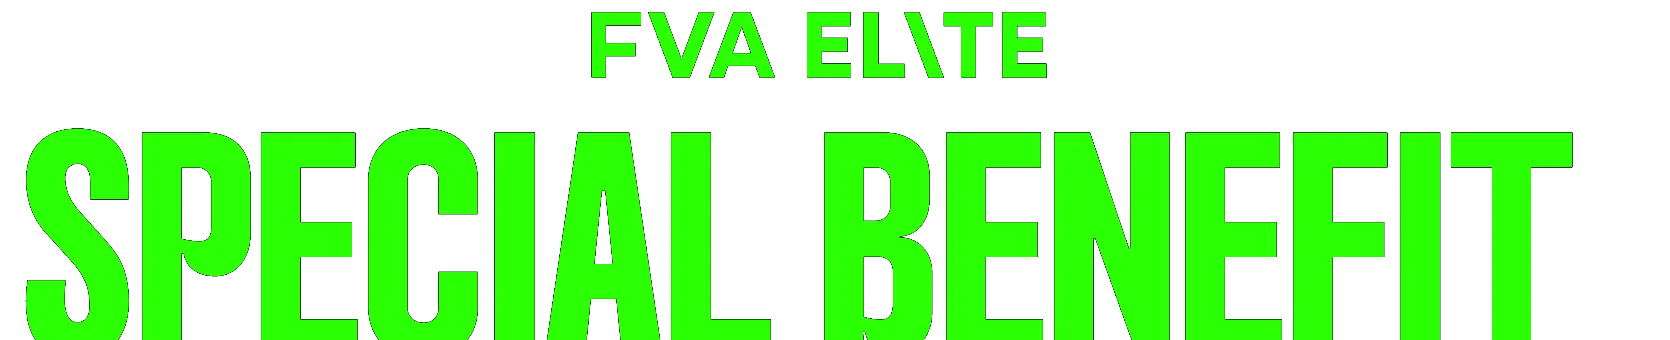
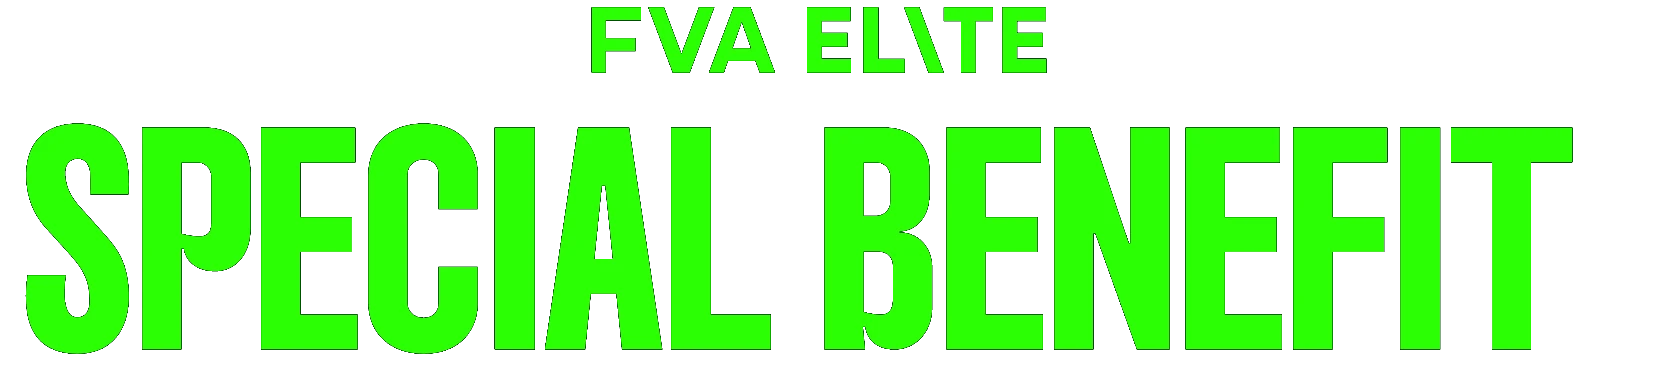
블록7 수정 2건 (사용자 지적)
1. SPECIAL BENEFIT 아래가 잘림
   잉크가 y3972~4319 인데 크롭을 4300 에서 끊어 19px 잘렸다.
   -> 3965~4330 으로 다시 잘랐다.

2. 01/02/03 이 가로선과 맞물림
   번호 글자를 150px 로 잡았는데 실제는 약 280px 였고(잉크 높이 207),
   위치도 가로선(5039·5584)보다 위에 있어 선이 숫자를 관통했다.
   -> 잉크 실측(01 y4593 · 02 y5128 · 03 y5672)에 맞춰
      글자 280px, top 4554/5089/5633 으로 다시 잡았다. 이제 선 아래에 온다.

1920/1024/390/360 가로넘침 0, 깨진 이미지 0.

diff --git a/offline.html b/offline.html
@@ -668,18 +668,18 @@
       <span class="sr-only">수업을 계속 진행하시겠습니까? — 아카데미를 수료하고 떠나니 아쉬우신가요? / 신입생과 네트워킹 기회를 만들고 싶으신가요? / 더욱 탄탄한 전문가급 포트폴리오를 만들고 싶으신가요?</span>
       <img src="assets/img/offline/b7-chat.webp" loading="lazy" alt=""></span>
     <p class="el-lead" style="left:calc(151.8/1920 * 100%);top:calc(3112.7/10213 * 100%);width:calc(1616/1920 * 100%)">감독님의 ‘비주얼 심화 수업 &amp; 집중 피드백’과<br>‘정규 수업 무제한 참여 가능’ 혜택을 포함한<br><em>엘리트 심화반</em>이 신규 개설되었습니다.</p>
-    <span style="left:calc(140/1920 * 100%);top:calc(3960/10213 * 100%);width:calc(1670/1920 * 100%);height:calc(340/10213 * 100%);z-index:2">
+    <span style="left:calc(140/1920 * 100%);top:calc(3965/10213 * 100%);width:calc(1670/1920 * 100%);height:calc(365/10213 * 100%);z-index:2">
       <span class="sr-only">FVA ELITE SPECIAL BENEFIT</span>
       <img src="assets/img/offline/b7-benefit.webp" loading="lazy" alt=""></span>
-    <p class="el-num" style="left:calc(113.9/1920 * 100%);top:calc(4472.3/10213 * 100%)">01</p>
+    <p class="el-num" style="left:calc(113.9/1920 * 100%);top:calc(4554/10213 * 100%)">01</p>
     <p class="el-t" style="left:calc(570.5/1920 * 100%);top:calc(4584.0/10213 * 100%)">비주얼 디렉팅 심화 수업</p>
     <p class="el-s" style="left:calc(609.2/1920 * 100%);top:calc(4723.5/10213 * 100%);width:calc(1100/1920 * 100%)">Reference로 나만의 감성과 취향 만들기<br>Cut by Cut으로 미쟝센 뜯어보기<br>영상 실무 A to Z : 어떻게 찍고 제작하는 것일까?</p>
     <hr class="el-rule" style="left:calc(111.6/1920 * 100%);top:calc(5036.7/10213 * 100%);width:calc(1696.7/1920 * 100%)">
-    <p class="el-num" style="left:calc(113.9/1920 * 100%);top:calc(5008.0/10213 * 100%)">02</p>
+    <p class="el-num" style="left:calc(113.9/1920 * 100%);top:calc(5089/10213 * 100%)">02</p>
     <p class="el-t" style="left:calc(570.5/1920 * 100%);top:calc(5125.3/10213 * 100%)">NEW 프로젝트 기획 &amp; 피드백</p>
     <p class="el-s" style="left:calc(609.2/1920 * 100%);top:calc(5263.8/10213 * 100%);width:calc(1100/1920 * 100%)">정규 수업 도중 아쉬웠던 프로젝트 Develop<br>팀원들과의 지속적인 스터디와 맞춤형 Feedback<br>타 기수 학생들과의 작품 협업 및 공모전 참여</p>
     <hr class="el-rule" style="left:calc(111.6/1920 * 100%);top:calc(5581.5/10213 * 100%);width:calc(1696.7/1920 * 100%)">
-    <p class="el-num" style="left:calc(113.9/1920 * 100%);top:calc(5552.0/10213 * 100%)">03</p>
+    <p class="el-num" style="left:calc(113.9/1920 * 100%);top:calc(5633/10213 * 100%)">03</p>
     <p class="el-cap" style="left:calc(576.6/1920 * 100%);top:calc(5685.2/10213 * 100%)">FVA ACADEMY</p>
     <p class="el-t" style="left:calc(570.5/1920 * 100%);top:calc(5741.6/10213 * 100%)">정규 수업 무.제.한 참여 가능</p>
     <p class="el-s" style="left:calc(609.2/1920 * 100%);top:calc(5884.4/10213 * 100%);width:calc(1100/1920 * 100%)">자유롭게 정규 수업에 참여하여 추가 피드백을<br>받거나 타 기수 수강생들과 교류할 수 있습니다.</p>

diff --git a/css/offline-blocks.css b/css/offline-blocks.css
@@ -965,8 +965,10 @@
                      letter-spacing:calc(var(--u) * -1.86/1920);
                      color:#fff; text-align:center; z-index:2 }
 .off-elite .el-lead em{ font-style:normal; color:var(--green) }
-.off-elite .el-num{ font-size:calc(var(--u) * 150/1920); line-height:1; font-weight:900;
-                    color:#fff; z-index:2 }
+/* 잉크 실측: 01 x128~413 y4593~4800 (207) · 02 y5128~5350 · 03 y5672~5900
+   가로선(5039·5584) 아래에 와야 한다. 150px 로 잡았다가 절반 크기로 나왔다. */
+.off-elite .el-num{ font-size:calc(var(--u) * 280/1920); line-height:1; font-weight:900;
+                    letter-spacing:calc(var(--u) * -8/1920); color:#fff; z-index:2 }
 .off-elite .el-t{ font-size:calc(var(--u) * 62/1920); line-height:1.2; font-weight:800;
                   letter-spacing:calc(var(--u) * -1.86/1920); color:#fff;
                   white-space:nowrap; z-index:2 }
@@ -1009,7 +1011,7 @@
   .off-elite .el-ko{ font-size:calc(var(--m) * 16/360); margin-top:calc(var(--m) * 10/360) }
   .off-elite .el-lead{ font-size:calc(var(--m) * 12/360); line-height:1.7;
                        padding-inline:calc(var(--m) * 20/360); margin-top:calc(var(--m) * 18/360) }
-  .off-elite .el-num{ font-size:calc(var(--m) * 26/360); text-align:center;
+  .off-elite .el-num{ font-size:calc(var(--m) * 34/360); text-align:center; letter-spacing:-.03em;
                       margin-top:calc(var(--m) * 18/360) }
   .off-elite .el-t{ font-size:calc(var(--m) * 14/360); text-align:center; white-space:normal }
   .off-elite .el-s{ font-size:calc(var(--m) * 10.5/360); line-height:1.7; text-align:center;
